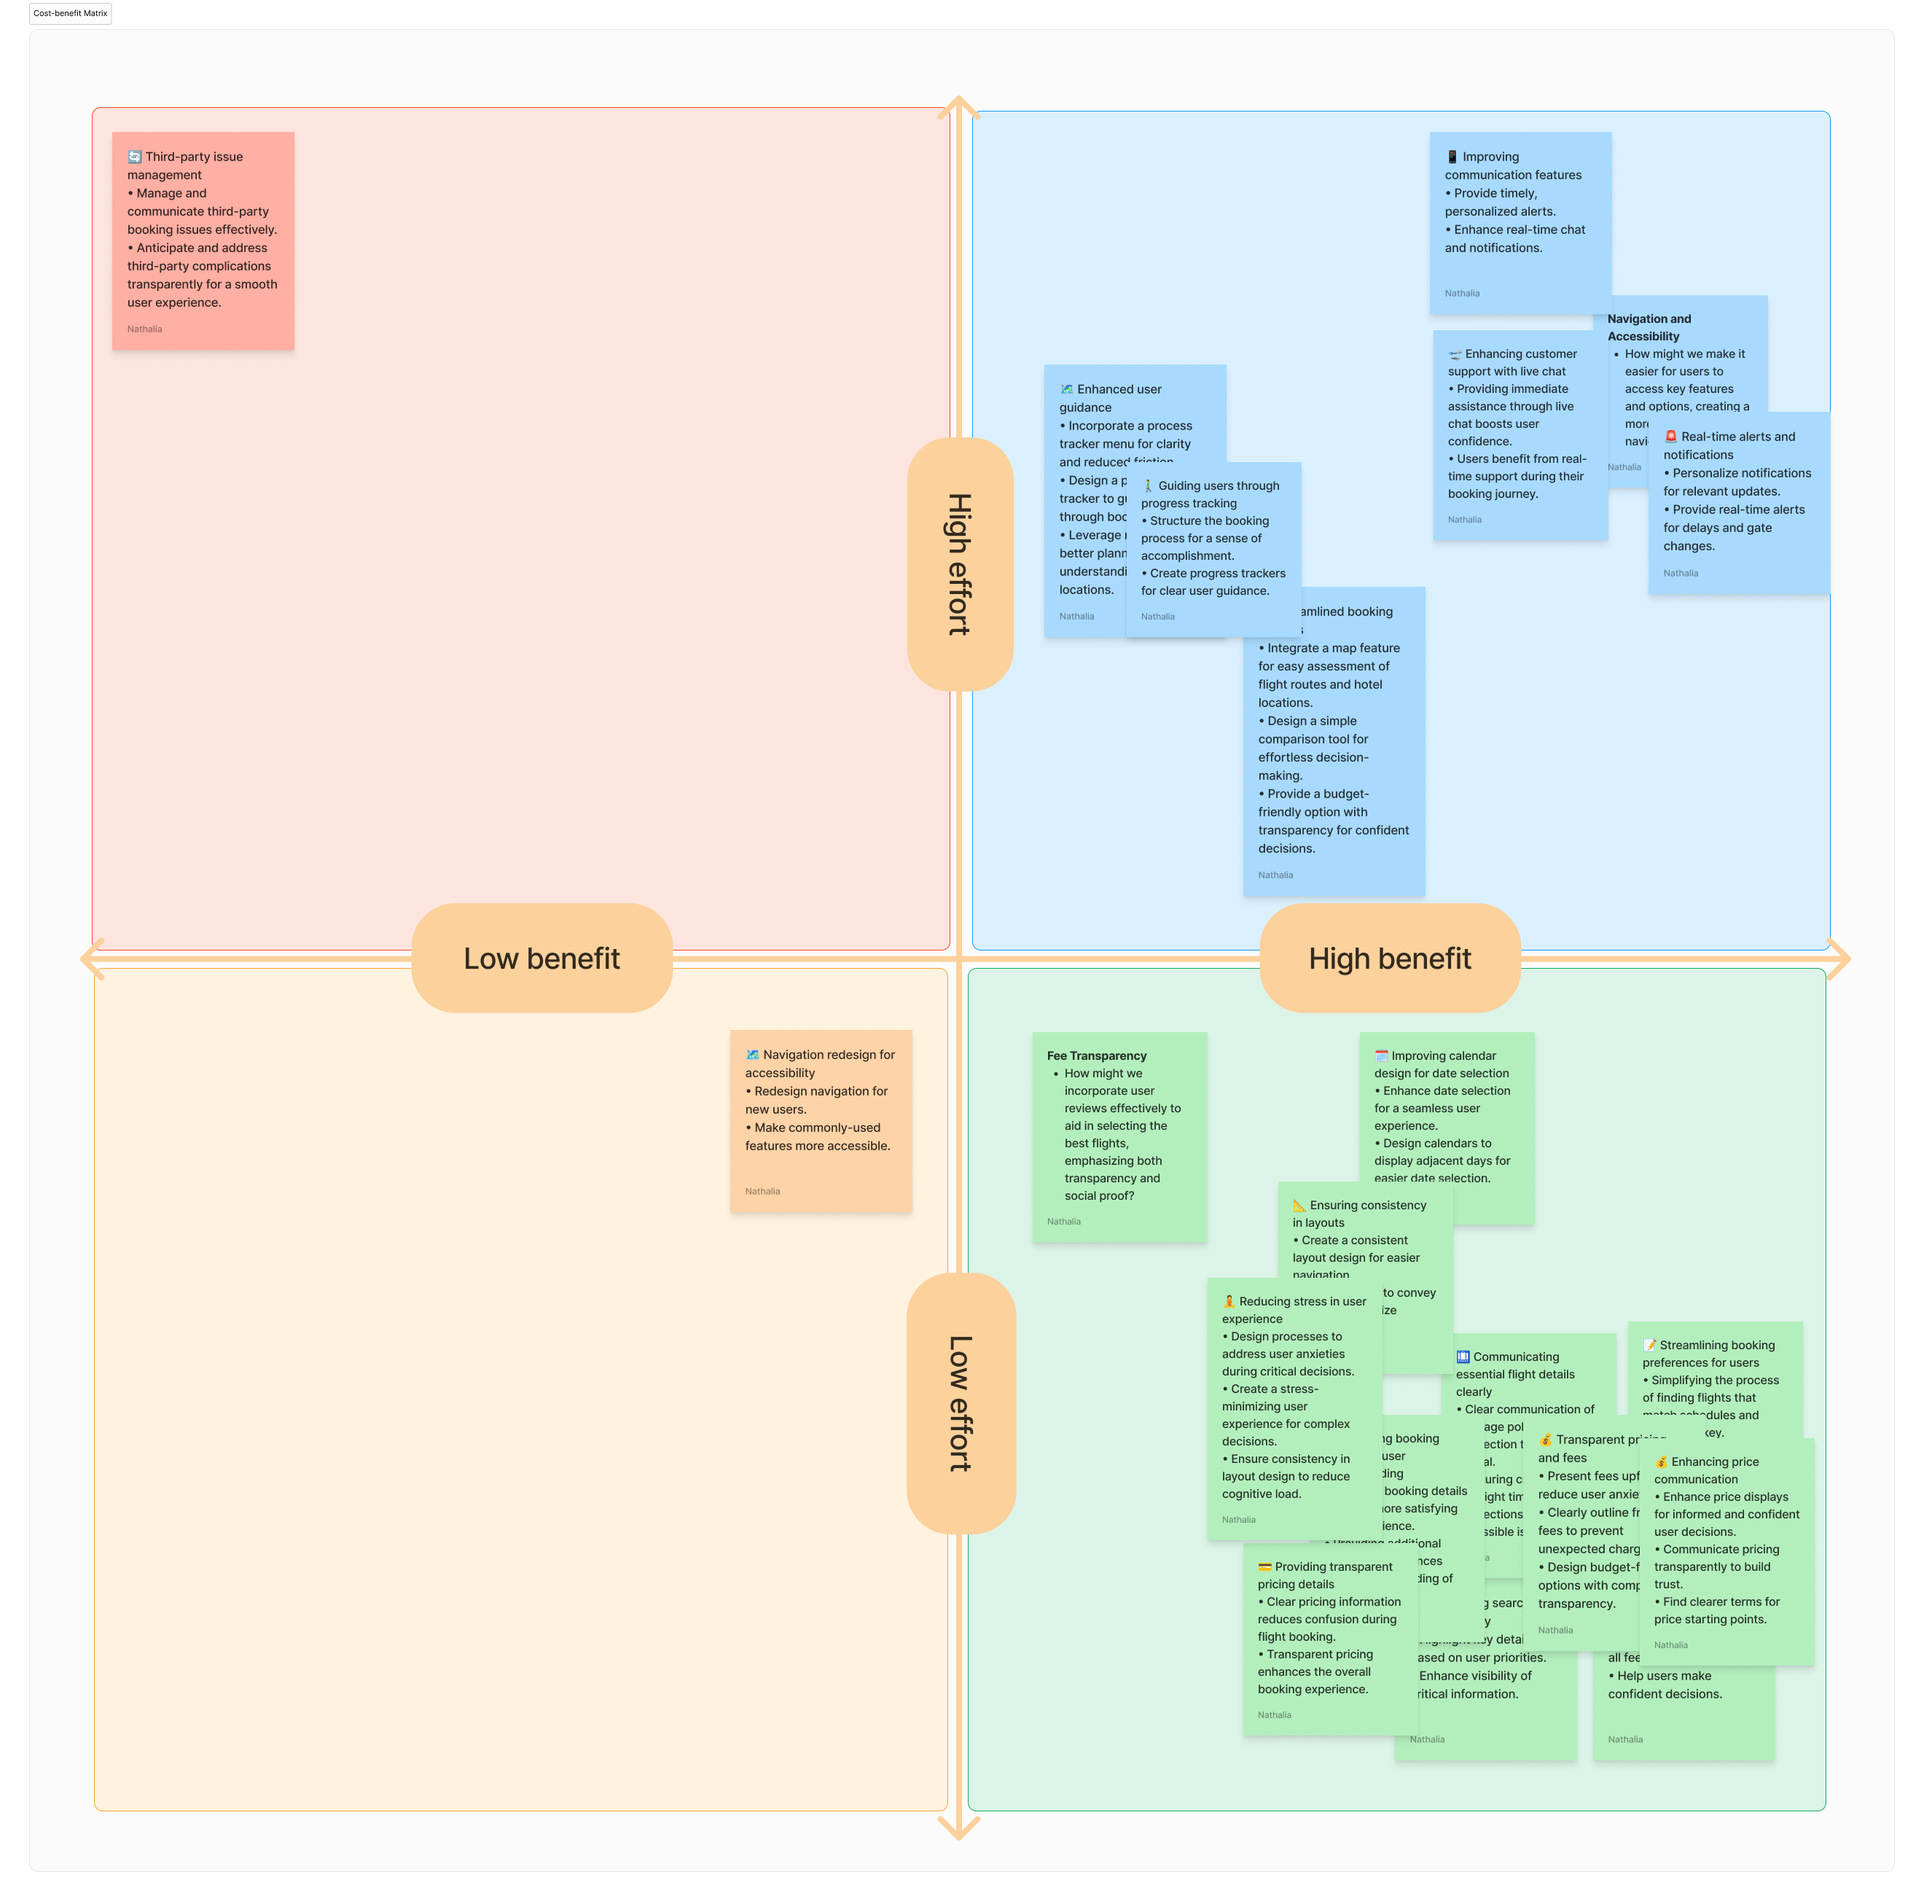
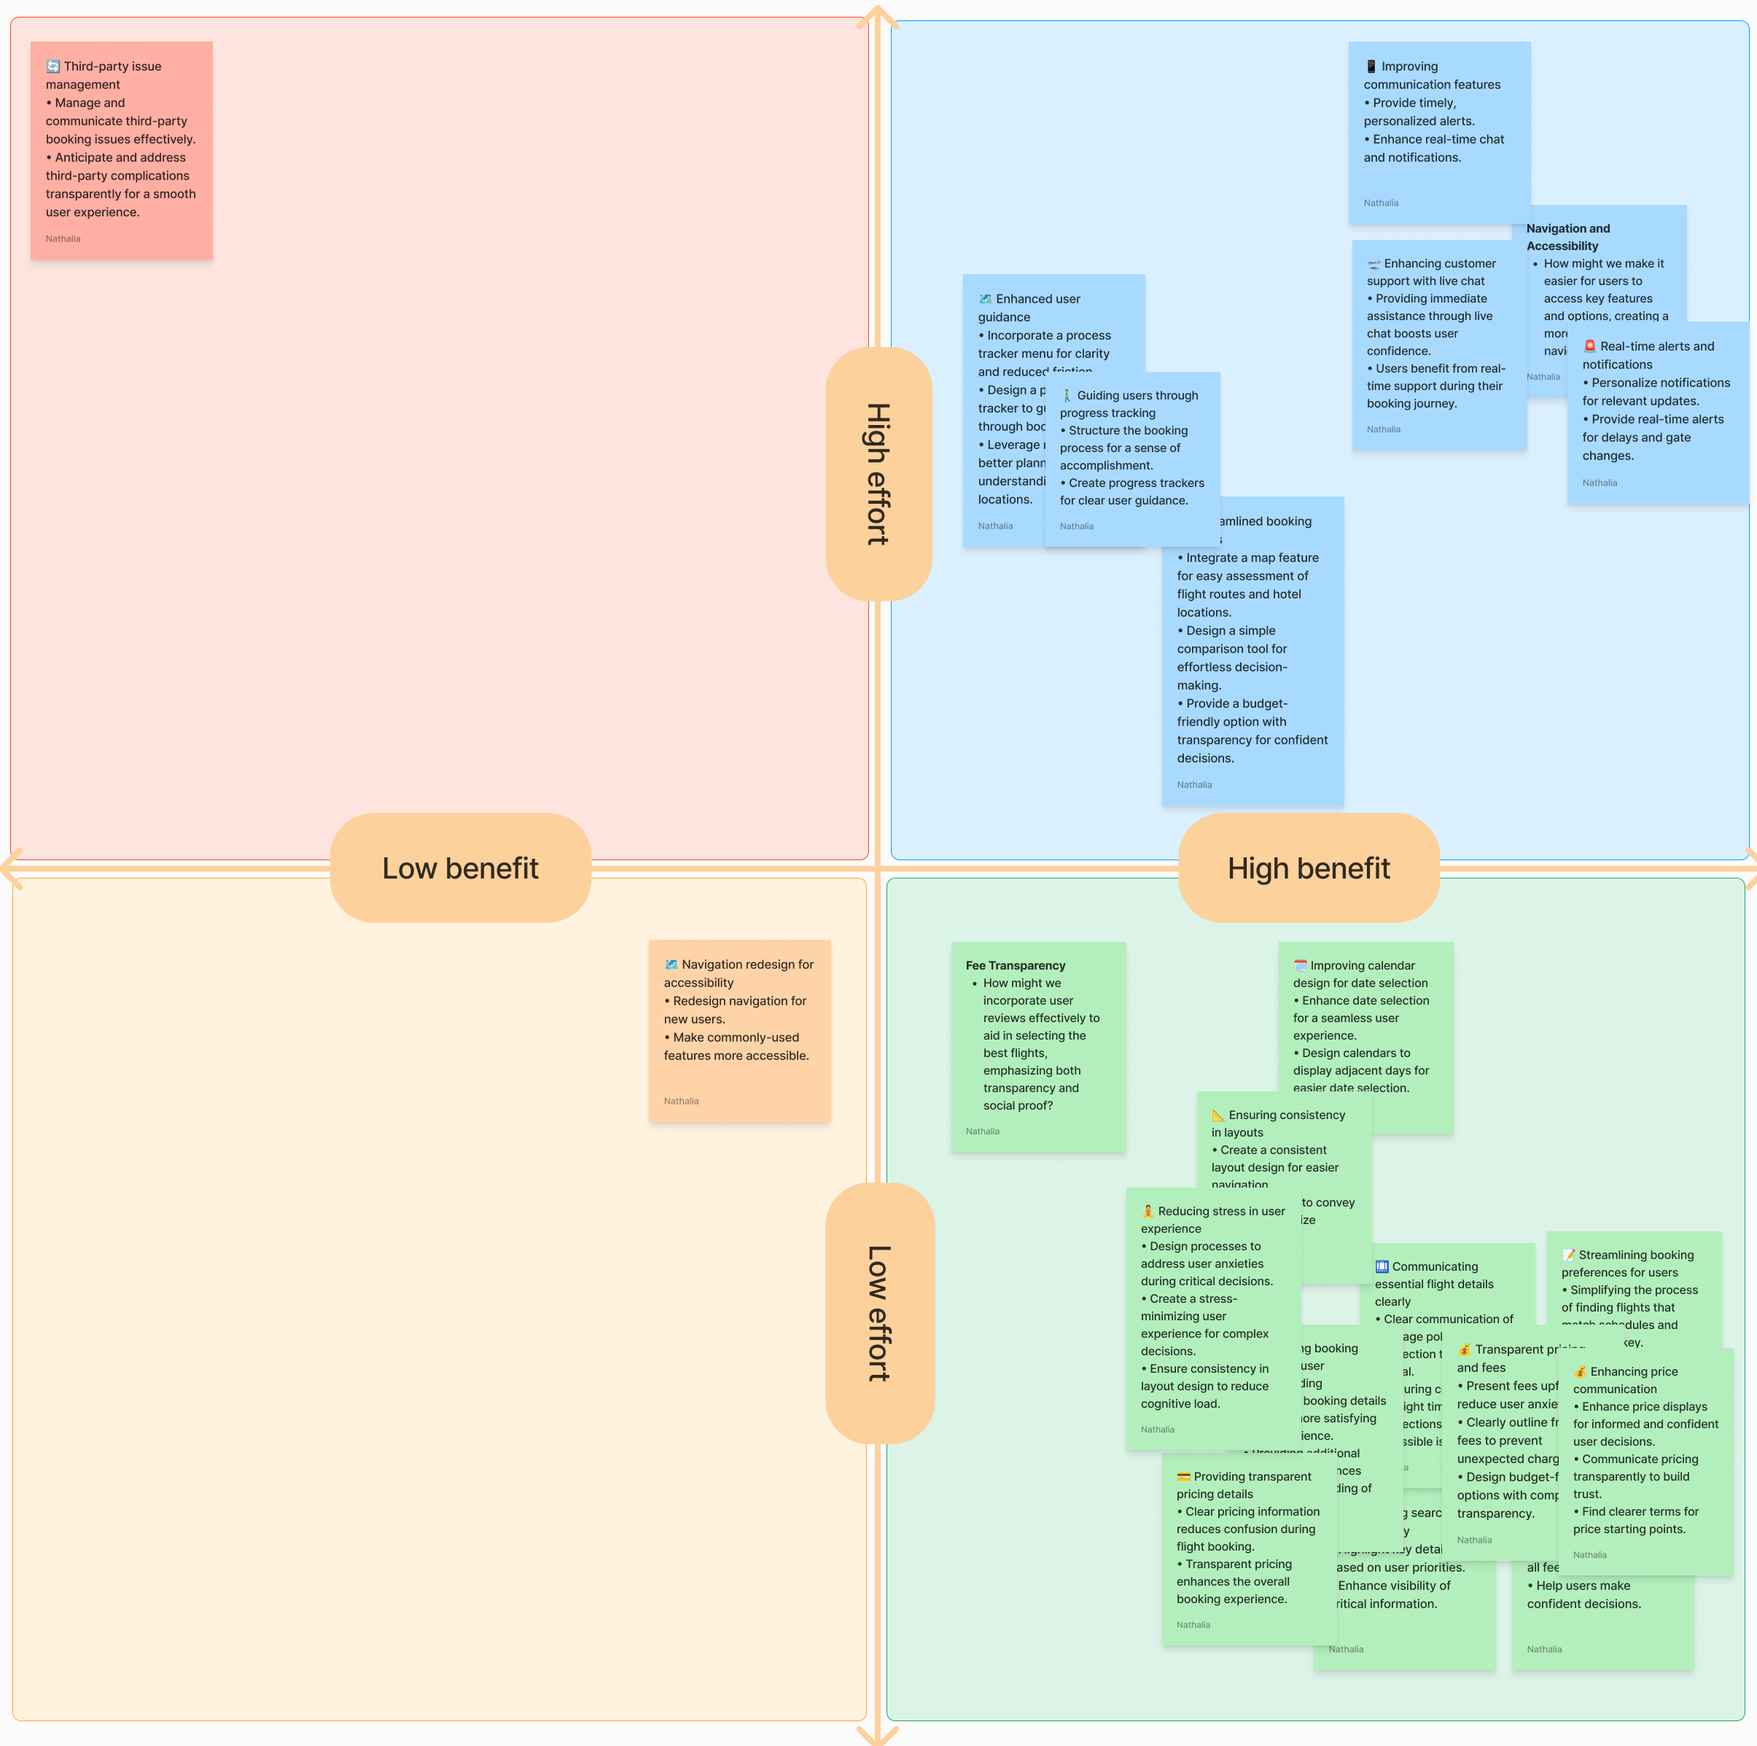
img prototype

Changed region(s): [[0.0, 0.0, 1.0, 1.0]]

diff --git a/projects/spirit.html b/projects/spirit.html
@@ -74,7 +74,7 @@
                 <!-- <h2>Flower Power</h2> -->
                 <div class="row">
                   <div class="cell">
-                    <h6>YEAR 2025</h6>
+                    <h6>YEAR <time datetime="2025-01-01">2025</time></h6>
         
                     <h5>BACKGROUND</h5>
                     <p>Spirit Airlines aims to provide affordable air travel with a user-friendly digital experience. While the app performs reasonably well, there are opportunities for improvement, particularly in areas like flight selection, fee transparency, and personalization. Addressing these aspects could further enhance customer satisfaction and trip planning efficiency.</p>
@@ -123,27 +123,27 @@
             <div class="painpoint">1</div>
             <div class="painpoint-description">
               <h5>Booking Process</h5>
-              <p>
+              <blockquote>
                 "My booking process involves setting flexible dates to <strong>find the cheapest options</strong>. If the app could <strong>suggest cheaper dates around my preferred travel dates</strong>, that would be a big plus." P4
-              </p>
+              </blockquote>
             </div>
           </div>
           <div class="painpoint-card">
             <div class="painpoint">2</div>
             <div class="painpoint-description">
               <h5>Decision-making</h5>
-              <p>
+              <blockquote>
                 "<strong> I mainly look for price, flight duration, and layovers</strong>. If your app can highlight the best options based on these criteria right from the start, it would streamline my decision-making process." P1
-              </p>
+              </blockquote>
             </div>
           </div>
           <div class="painpoint-card">
             <div class="painpoint">3</div>
             <div class="painpoint-description">
               <h5>Features</h5>
-              <p>
+              <blockquote>
               "I usually search for flights based on time and price, then look into the airline’s policies on luggages and refunds. If your app can consolidate this information clearly, it would be very helpful." P5
-              </p>
+              </blockquote>
             </div>
           </div>
         </div>
@@ -167,23 +167,19 @@
       <section>
         <h2>Defining the solution</h2>
         <!-- <p>Armed with research, I synthesized findings using: Heuristic Analysis, JTBD and HMW Statements.</p> -->
-        <h4>How might we improve Spirit Airlines’ booking experience to <span>increase conversions</span> while maintaining the affordability that defines the brand?</h4>
-        <p>To prioritize improvements, I used:</p>
-        <ul>
-            <li>Imapct vs. Benefit Matrix to focus on the high-value, low effort fixes first.</li>
-            <li>MoSCoW Method to define must-haves vs. nice-to have features.</li>
-        </ul>
+        <h4>How might we improve Spirit Airlines’ booking experience to <mark>increase conversions</mark> while maintaining the affordability that defines the brand?</h4>
+      </br>
+        <h5>Prioritizing improvements:</h5>
+        <p>Visualizing Prioritization with the Impact vs Benefit Matrix and Moscow Method</p>
         <div class="method-wrapper">
-            <div class="method">
-                <img class="matrix-img" src="../assets/matrix-spirit.png" alt="Impact vs Benefit Matrix">
-                <img class="method-img" src="../assets/moscow-spirit.png" alt="Moscow Method">
-            </div>
+            <img class="matrix-img" src="../assets/matrix-spirit.png" alt="Impact vs Benefit Matrix">                            
+            <img class="method-img" src="../assets/moscow-spirit.png" alt="Moscow Method">
         </div>
     </div>
 </section>
 
 <section>
-          <h4>Hypothesis Statements</h4>
+          <h2>Hypothesis Statements</h2>
           <p>I wanted to ground my ideas in evidence and ensure my approach is measurable. Here some of them:</p>
           <div class="hs-wrapper">
               <div class="hs">
@@ -228,7 +224,7 @@
                 <p>Ann Gullar, has been planning to visit her family in Miami for her mother's birthday next month. As a young professional on a tight budget, she's heard about Spirit Airlines' low-cost options but is cautious about additional fees. She decides to book her flight using the mobile app during her lunch break.</p>
             </div>
             <div class="cjm" >
-                <img class="cjm-img"  src="../assets/CJM-spirit.png" alt="journey-mapping">
+                <img class="cjm-img" id="img01" src="../assets/CJM-spirit.png" alt="journey-mapping">
             </div>
         </div>
       </section>
@@ -278,12 +274,12 @@
                   />
                 </div>
                 <div class="mockup-wrapper" >
-                  <img class="mockup" src="../assets/spirit-banner.png" alt="mockups">
+                  <img class="banner" src="../assets/spirit-banner.png" alt="mockups">
                 </div>
               </section>
 
       <section>
-        <h4>A/B Testing Plan:</h4>
+        <h2>A/B Testing Plan</h2>
         <p>To ensure our redesign truly met users’ needs, we turned to A/B testing—a data-driven approach that lets real users guide our next steps. By comparing the original and updated versions side by side, we set out to discover which design delivered a smoother, more intuitive experience. </p>
         <div class="data-wrapper">
             <div class="data">
@@ -371,6 +367,14 @@
                   </a>
                 </div>
               </section> -->
+              <!-------------- Modal -------------->
+              <div>
+                <div id="myModal" class="modal">
+                  <span class="close">&times;</span>
+                  <img class="modal-content" id="img01" />
+                  <div id="caption"></div>
+                </div>
+              </div>
       </main>
       <footer>Designed and built by Nathalia Troina</footer>
 

diff --git a/projects/cases-style.css b/projects/cases-style.css
@@ -109,6 +109,16 @@ h6 {
   color: var(--uppercase-color);
 }
 
+time{
+  font-size: 1rem;
+  line-height: 1.5;
+  margin-top: 1rem;
+  margin-bottom: 0.5rem;
+  letter-spacing: 0.02em;
+  text-transform: uppercase;
+  color: var(--uppercase-color);
+}
+
 p {
   font-family: 'Nunito', sans-serif; /* Body text uses Nunito */
   margin-top: 0;
@@ -121,9 +131,8 @@ p {
     font-weight: bold;
 }
 
-span{
+mark{
   font-weight: 600;
-  color: var(--tertiary-color);
 }
 
 ul {
@@ -351,7 +360,7 @@ main{
 img.carousel {
   display: inline;
   /* gap: 9px; */
-  height: 450px;
+  height: 550px;
 }
 
 .project-overview {
@@ -528,14 +537,16 @@ img.carousel {
 .data-wrapper{
   display: flex;
   flex-wrap: wrap;
+  justify-content: space-around;
+  /* align-items: center; */
 }
 
 
 /* verificar se esse 80px é mais adequado */
 .data{
   width: 33%;
-  padding-top: 16px;;
-  padding-right: 80px;
+  text-align: center;
+  padding: 16px;
 }
 
 
@@ -569,36 +580,37 @@ img.carousel {
 }
 
 .cjm-img{
-  width: 90%;
-  height: 400px;
+  width: 100%;
 }
 
 
 .method-wrapper{
   display: flex;
   flex-wrap: wrap;
+  background-color: var(--white-color);
 }
 
 .method{
   width: 100%;
-  display: flex;
-  justify-content: space-around;
-  padding-bottom: 32px;
+  display: grid;
+  grid-template-columns: 1fr 1fr;
+  /* justify-content: space-around; */
+  /* padding-bottom: 32px; */
   gap: 16px;
-  background-color: var(--white-color);
+  align-items: center;
 }
 
-.method p{
-  margin: 0;
-  padding: 0;
-}
 
 .method-img{
-  width: 35%;
+  width: 90%;
+  margin: 0 auto;
+  padding-bottom: 16px;
 }
 
 .matrix-img{
-  width: 40%;
+  width: 70%;
+  margin: 0 auto;
+  margin-bottom: 74px;
 }
 
 .hs-wrapper{
@@ -660,7 +672,7 @@ img.carousel {
 
 
 img.gif {
-  height: 400px;
+  height: 500px;
 }
 
 .mockup-wrapper{
@@ -677,6 +689,13 @@ img.gif {
 .mockup-gym{
   height: 600px;
 }
+
+
+/* usar width ou height, nao os dois */
+.banner{
+  width: 90%;
+}
+
 
 
 
@@ -806,6 +825,88 @@ footer {
   font-size: 12px;
   text-align: center;
   color: var(--text-color);
+}
+
+/* ---------Modal------------------------- */
+
+/* Style the Image Used to Trigger the Modal */
+#myImg {
+  border-radius: 5px;
+  cursor: pointer;
+  transition: 0.3s;
+}
+
+#myImg:hover {opacity: 0.7;}
+
+/* The Modal (background) */
+.modal {
+  display: none; /* Hidden by default */
+  position: fixed; /* Stay in place */
+  z-index: 1; /* Sit on top */
+  padding-top: 100px; /* Location of the box */
+  left: 0;
+  top: 0;
+  width: 100%; /* Full width */
+  height: 100%; /* Full height */
+  overflow: auto; /* Enable scroll if needed */
+  background-color: rgb(0,0,0); /* Fallback color */
+  background-color: rgba(0,0,0,0.9); /* Black w/ opacity */
+}
+
+/* Modal Content (Image) */
+.modal-content {
+  margin: auto;
+  display: block;
+  width: 80%;
+  max-width: 700px;
+}
+
+/* Caption of Modal Image (Image Text) - Same Width as the Image */
+#caption {
+  margin: auto;
+  display: block;
+  width: 80%;
+  max-width: 700px;
+  text-align: center;
+  color: #ccc;
+  padding: 10px 0;
+  height: 150px;
+}
+
+/* Add Animation - Zoom in the Modal */
+.modal-content, #caption {
+  animation-name: zoom;
+  animation-duration: 0.6s;
+}
+
+@keyframes zoom {
+  from {transform:scale(0)}
+  to {transform:scale(1)}
+}
+
+/* The Close Button */
+.close {
+  position: absolute;
+  top: 15px;
+  right: 35px;
+  color: #f1f1f1;
+  font-size: 40px;
+  font-weight: bold;
+  transition: 0.3s;
+}
+
+.close:hover,
+.close:focus {
+  color: #bbb;
+  text-decoration: none;
+  cursor: pointer;
+}
+
+/* 100% Image Width on Smaller Screens */
+@media only screen and (max-width: 700px){
+  .modal-content {
+    width: 100%;
+  }
 }
 
 

diff --git a/home.js b/home.js
@@ -46,4 +46,21 @@ document.addEventListener('DOMContentLoaded', () => {
       navMenu.classList.toggle('active');
     });
   });
+
+
+//   Modal functionality
+const modal = document.getElementById("myModal");
+const btn = document.getElementById("myBtn");
+const span = document.getElementsByClassName("close")[0];
+btn.onclick = function() {
+    modal.style.display = "block";
+}
+span.onclick = function() {
+    modal.style.display = "none";
+}
+window.onclick = function(event) {
+    if (event.target == modal) {
+        modal.style.display = "none";
+    }
+}
   

diff --git a/index.html b/index.html
@@ -116,7 +116,7 @@
           <div class="project-description">
               <h3>Spirit Airlines</h3>
               <p>Beyond Low Fares</p>
-              <a href="">UX Case Study</a>
+              <a href="./projects/spirit.html">UX Case Study</a>
           </div>
       </div>
 
